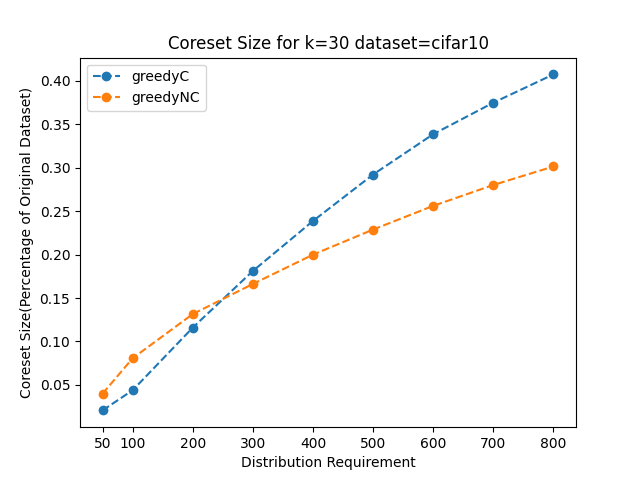
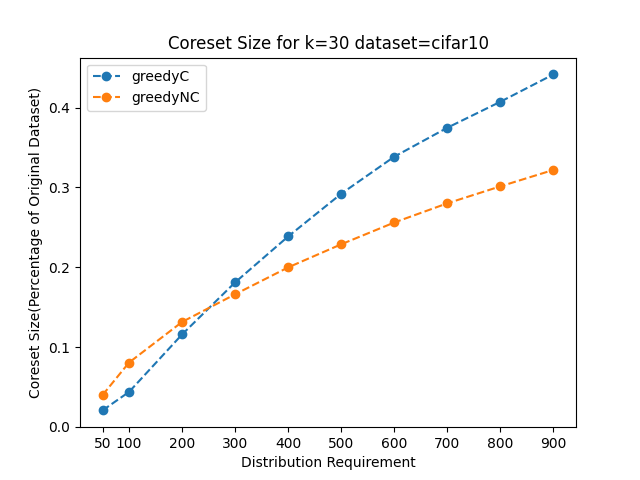
update bandit

diff --git a/ds-python/algorithms.py b/ds-python/algorithms.py
@@ -10,7 +10,8 @@ import random
 import numpy as np
 import os
 from paths import *
-
+import faiss
+from utils_algo import *
 
 def calculate_cscore(solution, posting_list, delta_size=50000):
     cmatrix = np.zeros(shape=(len(solution), delta_size))
@@ -125,27 +126,45 @@ def greedyNC(coverage_factor, distribution_req, dataset_name, dataset_size, cov_
         coverage score for this solution
         time taken 
     '''
+
+    
+    '''
+    TODO: generate metadata on the fly, use the following to pass params to the utils_algo function
+        params = lambda : None 
+        params.dataset = 'cifar10'
+        params.coverage_threshold = 0.9
+    '''
     start_time = time.time()
     location = POSTING_LIST_LOC.format(dataset_name, cov_threshold, 1)
-    posting_list_filepath = location + 'posting_list_alexnet.txt'
-    posting_list_file = open(posting_list_filepath, 'r')
+    # posting_list_filepath = location + 'posting_list_alexnet.txt'
+    # posting_list_file = open(posting_list_filepath, 'r')
     label_file = open(LABELS_FILE_LOC.format(dataset_name), 'r')
     label_ids_to_name = {0 : "airplane", 1 : "automobile", 2 : "bird", 3 : "cat", 4 : "deer", 5 : "dog", 6 : "frog", 7 : "horse", 8 : "ship", 9 : "truck"}
 
     # generate posting list map
-    posting_list = dict()
-    delta = set()
-    lines = posting_list_file.readlines()
+    # posting_list = dict()
+    # delta = set()
+    # lines = posting_list_file.readlines()
+    # delta_size = dataset_size
+    # for line in lines:
+    #     pl = line.split(':')
+    #     key = int(pl[0])
+    #     value = pl[1].split(',')
+    #     value = [int(v.replace("{", "").replace("}", "").strip()) for v in value]
+    #     arr = np.zeros(delta_size)
+    #     arr[value] = 1
+    #     posting_list[key] = arr
+    #     delta.add(key)
     delta_size = dataset_size
-    for line in lines:
-        pl = line.split(':')
-        key = int(pl[0])
-        value = pl[1].split(',')
-        value = [int(v.replace("{", "").replace("}", "").strip()) for v in value]
+    params = lambda : None
+    params.dataset = dataset_name
+    params.coverage_threshold = cov_threshold
+    posting_list = get_full_data_posting_list(params)
+    delta = set(posting_list.keys())
+    for key, value in posting_list.items():
         arr = np.zeros(delta_size)
-        arr[value] = 1
+        arr[list(value)] = 1
         posting_list[key] = arr
-        delta.add(key)
 
     # class labels for points
     labels = label_file.readlines()
@@ -159,6 +178,7 @@ def greedyNC(coverage_factor, distribution_req, dataset_name, dataset_size, cov_
             arr[label] = 1
             labels_dict[key] = arr
     
+    label_file.close()
     CC = np.empty(delta_size) # coverage tracker
     CC[list(delta)] = coverage_factor
     GC = np.array(distribution_req) # group count tracker
@@ -264,7 +284,8 @@ def bandit_algorithm(coverage_factor, distribution_req, dataset_name, dataset_si
     print('Time Taken for metadata loading:{0}'.format(mid_time - start_time))
     # Initialize variables to keep track of
     not_satisfied = list(delta) # Points whose cov & dist reqs are not met
-    CC = np.full((delta_size), coverage_factor) # Coverage counter
+    CC = np.empty(delta_size) # coverage tracker
+    CC[list(delta)] = coverage_factor
     GC = np.array(distribution_req) # Group requirement counter
     solution = set() # Coreset
 
@@ -278,6 +299,7 @@ def bandit_algorithm(coverage_factor, distribution_req, dataset_name, dataset_si
             best_LCB = float("-inf")
             # Sample random point
             r = random.sample(not_satisfied, k=1)
+            r = r[0]
             for a in actions:
                 # Calculate score for point r
                 r_score = 0
@@ -294,7 +316,7 @@ def bandit_algorithm(coverage_factor, distribution_req, dataset_name, dataset_si
                 if (new_LCB > best_LCB):
                     best_LCB = new_LCB
             # Remove actions that cannot be optimal
-            actions = filter(lambda a : reward_estimate[a]["avg"] + 2 * reward_estimate[a]["stdev"] >= best_LCB, actions)
+            actions = list(filter(lambda a : reward_estimate[a]["avg"] + 2 * reward_estimate[a]["stdev"] >= best_LCB, actions))
 
         # Choose best action
         best_action = None
@@ -312,7 +334,7 @@ def bandit_algorithm(coverage_factor, distribution_req, dataset_name, dataset_si
         solution.add(best_action)
         CC = np.subtract(CC, posting_list[best_action])
         GC = np.subtract(GC, labels_dict[best_action])
-        not_satisfied = filter(lambda p : CC[p] > 0 or distritbution_score(GC, labels_dict[p]) > 0)
+        not_satisfied = list(filter(lambda p : CC[p] > 0 or distritbution_score(GC, labels_dict[p]) > 0, not_satisfied))
     
     end_time = time.time()
     print(len(solution)) 

diff --git a/ds-python/main_algo.py b/ds-python/main_algo.py
@@ -7,6 +7,7 @@ import os
 import numpy as np
 import multiprocessing
 import argparse
+import faiss
 from algorithms import *
 from paths import *
 
@@ -46,7 +47,8 @@ def run_algo(params):
         solution_data.append((s, cscore, res_time))
 
     elif params.algo_type == 'MAB':
-        s, cscore, res_time = bandit_algorithm(params.coverage_factor, params.distribution_req, params.dataset, params.dataset_size, params.coverage_threshold)
+        dist_req = [params.distribution_req] * params.num_classes 
+        s, cscore, res_time = bandit_algorithm(params.coverage_factor, dist_req, params.dataset, params.dataset_size, params.coverage_threshold)
         solution_data.append((s, cscore, res_time))
     # calculate metrics
     coreset = set()
@@ -57,25 +59,26 @@ def run_algo(params):
         cscores += t[1]
         response_time = max(response_time, t[2])
     
+    print('Time Taken:{0}'.format(response_time))
     # report metrics
-    metric_file_name = METRIC_FILE.format(params.dataset, params.coverage_factor, params.distribution_req, params.algo_type)
-    with open(metric_file_name, 'w') as f:
-        f.write(
-            'Dataset Size: {0}\nCoreset Size: {1}\nCoverage Score: {2}\nTime Taken: {3}\n'.format(
-                int(params.dataset_size),
-                len(coreset),
-                cscores,
-                response_time
-            )
-        )
-    f.close()
+    # metric_file_name = METRIC_FILE.format(params.dataset, params.coverage_factor, params.distribution_req, params.algo_type)
+    # with open(metric_file_name, 'w') as f:
+    #     f.write(
+    #         'Dataset Size: {0}\nCoreset Size: {1}\nCoverage Score: {2}\nTime Taken: {3}\n'.format(
+    #             int(params.dataset_size),
+    #             len(coreset),
+    #             cscores,
+    #             response_time
+    #         )
+    #     )
+    # f.close()
 
-    # log coreset points
-    solution_file_name = SOLUTION_FILENAME.format(params.dataset, params.coverage_factor, params.distribution_req, params.algo_type)
-    with open(solution_file_name, 'w') as f:
-        for s in coreset:
-            f.write("{0}\n".format(s))
-    f.close()
+    # # log coreset points
+    # solution_file_name = SOLUTION_FILENAME.format(params.dataset, params.coverage_factor, params.distribution_req, params.algo_type)
+    # with open(solution_file_name, 'w') as f:
+    #     for s in coreset:
+    #         f.write("{0}\n".format(s))
+    # f.close()
 
 
 if __name__ == "__main__":
@@ -85,8 +88,8 @@ if __name__ == "__main__":
     parser.add_argument('--dataset', type=str, default='cifar10', help='dataset to use')
     parser.add_argument('--coverage_threshold', type=float, default=0.9, help='coverage threshold to generate metadata')
     parser.add_argument('--partitions', type=int, default=10, help="number of partitions")
-    parser.add_argument('--algo_type', type=str, default='MAB', help='which algorithm to use [greedyNC, greedyC, MAB, random, herding, k_center, forgetting]')
-    parser.add_argument('--distribution_req', type=int, default=100, help='number of samples ')
+    parser.add_argument('--algo_type', type=str, default='greedyNC', help='which algorithm to use [greedyNC, greedyC, MAB, random, herding, k_center, forgetting]')
+    parser.add_argument('--distribution_req', type=int, default=50, help='number of samples ')
     parser.add_argument('--coverage_factor', type=int, default=30, help='defining the coverage factor')
     params = parser.parse_args()
     

diff --git a/ds-python/utils_algo.py b/ds-python/utils_algo.py
@@ -10,7 +10,7 @@ from os.path import isfile, join
 import pickle
 from collections import defaultdict
 import argparse
-
+import time
 
 
 def create_partitions(params, random_partition=False):
@@ -45,7 +45,7 @@ def create_partitions(params, random_partition=False):
 
 
 def get_posting_lists(params, partition_data):
-    feature_vectors = pickle.load(FEATURE_VECTOR_LOC.format(params.dataset), 'rb')
+    feature_vectors = pickle.load(open(FEATURE_VECTOR_LOC.format(params.dataset), 'rb'))
     fv_partitions = np.take(feature_vectors, partition_data, 0)
     d = fv_partitions.shape[1]
     N = fv_partitions.shape[0]
@@ -67,6 +67,27 @@ def get_posting_lists(params, partition_data):
     
     return partition_posting_list
 
+
+
+def get_full_data_posting_list(params):
+    feature_vectors = pickle.load(open(FEATURE_VECTOR_LOC.format(params.dataset), 'rb'))
+    d = feature_vectors.shape[1]
+    N = feature_vectors.shape[0]
+    posting_list = {}
+    xb = feature_vectors.astype('float32')
+    xb[:, 0] += np.arange(N) / 1000
+    faiss_index = faiss.IndexFlatL2(d)
+    faiss.normalize_L2(x=xb)
+    faiss_index.add(xb)
+    print('successfully built faiss index (size : {0})'.format(faiss_index.ntotal))
+    # for larger index, search in batches 
+    batch_size = 1000
+    for i in range(0, xb.shape[0], batch_size):
+        limits, D, I = faiss_index.range_search(xb[i:i+batch_size], params.coverage_threshold)
+        for j in range(batch_size):
+            posting_list[i+j] = set(I[limits[j] : limits[j+1]])
+    
+    return posting_list
 
 def write_posting_lists(params, posting_list_data):
     location = POSTING_LIST_LOC.format(params.dataset, params.coverage_threshold, params.partitions)
@@ -98,8 +119,12 @@ if __name__=='__main__':
         params.dataset_size = 50000
         params.num_classes = 100
 
-    partitions = create_partitions(params)
-    print(partitions)
+    # partitions = create_partitions(params)
+    # print(partitions)
+    start_time = time.time()
+    posting_list = get_full_data_posting_list(params)
+    end_time = time.time()
+    print('Time Taken to generate metadata: {0}'.format(end_time - start_time))
 
 
 

diff --git a/ds-python/main_model.py b/ds-python/main_model.py
@@ -1,5 +1,6 @@
 
 import os
+from os.path import isfile
 import statistics
 import networks
 import argparse
@@ -58,6 +59,7 @@ def get_model_id(params):
 def train_and_test(model, params):
     tblog_path, checkpoint_dir = get_model_dump_paths(params)
     model_id = get_model_id(params)
+    model_path = os.path.join(checkpoint_dir, '{0}.pt'.format(model_id))
     torch.manual_seed(params.seed)
     print('used seed : {}'.format(params.seed))
 
@@ -156,7 +158,6 @@ def train_and_test(model, params):
         accs.append(test_acc)
     
     # save model
-    model_path = os.path.join(checkpoint_dir, '{0}.pt'.format(model_id))
     torch.save(model.state_dict(), model_path)
 
     # report metrics
@@ -210,13 +211,19 @@ if __name__=="__main__":
         im_size = (28, 28)
         num_classes = 10
 
-    # toDo: add other networks
-    model = None
-    if params.model == 'alexnet':
-        model = networks.AlexNet(num_classes)
-    elif params.model == 'convnet':
-        model = networks.ConvNet(channel, num_classes, params.net_width, params.net_depth, params.net_act, params.net_norm, params.net_pooling, im_size)
 
-    model = model.to(device)
-    model = torch.nn.parallel.DataParallel(model, device_ids=DEVICE_IDS)
-    train_and_test(model, params)
+    tblog_path, checkpoint_dir = get_model_dump_paths(params)
+    model_id = get_model_id(params)
+    model_path = os.path.join(checkpoint_dir, '{0}.pt'.format(model_id))
+
+    if not isfile(model_path):
+        # TODO: add other networks
+        model = None
+        if params.model == 'alexnet':
+            model = networks.AlexNet(num_classes)
+        elif params.model == 'convnet':
+            model = networks.ConvNet(channel, num_classes, params.net_width, params.net_depth, params.net_act, params.net_norm, params.net_pooling, im_size)
+
+        model = model.to(device)
+        model = torch.nn.parallel.DataParallel(model, device_ids=DEVICE_IDS)
+        train_and_test(model, params)

diff --git a/ds-python/plot.py b/ds-python/plot.py
@@ -6,7 +6,7 @@ from paths import *
 from itertools import islice
 
 
-# distribution_req = [50,100,200,300,400,500,600,700,800]
+# distribution_req = [50,100,200,300,400,500,600,700,800,900]
 distribution_req = [50]
 
 def get_output_filename(params, i, algo_type):
@@ -137,7 +137,7 @@ def find_best_model(filename):
     f.close()
     best_model_id = None
     best_model_acc_data = [float("-inf"), float("-inf")] # [mean_test_acc, stdev_acc]
-
+    print(len(model_details.keys()))
     for key, value in model_details.items():
         test_acc = float(value[0].strip().split(":")[1])
         if test_acc > best_model_acc_data[0]:
@@ -186,3 +186,4 @@ if __name__=="__main__":
     greedyNC_best_models = [find_best_model(f) for f in greedyNC_metrics_files]
 
     print(greedyC_best_models)
+    print(greedyNC_best_models)

diff --git a/ds-python/paths.py b/ds-python/paths.py
@@ -39,7 +39,7 @@ import torch
 
 
 # define device type, number of GPUs available
-DEVICE_IDS = [0, 1, 2, 3]
+DEVICE_IDS = [0, 1, 2]
 device = torch.device('cuda' if torch.cuda.is_available() else 'cpu')
 
 # paths for model-data/
